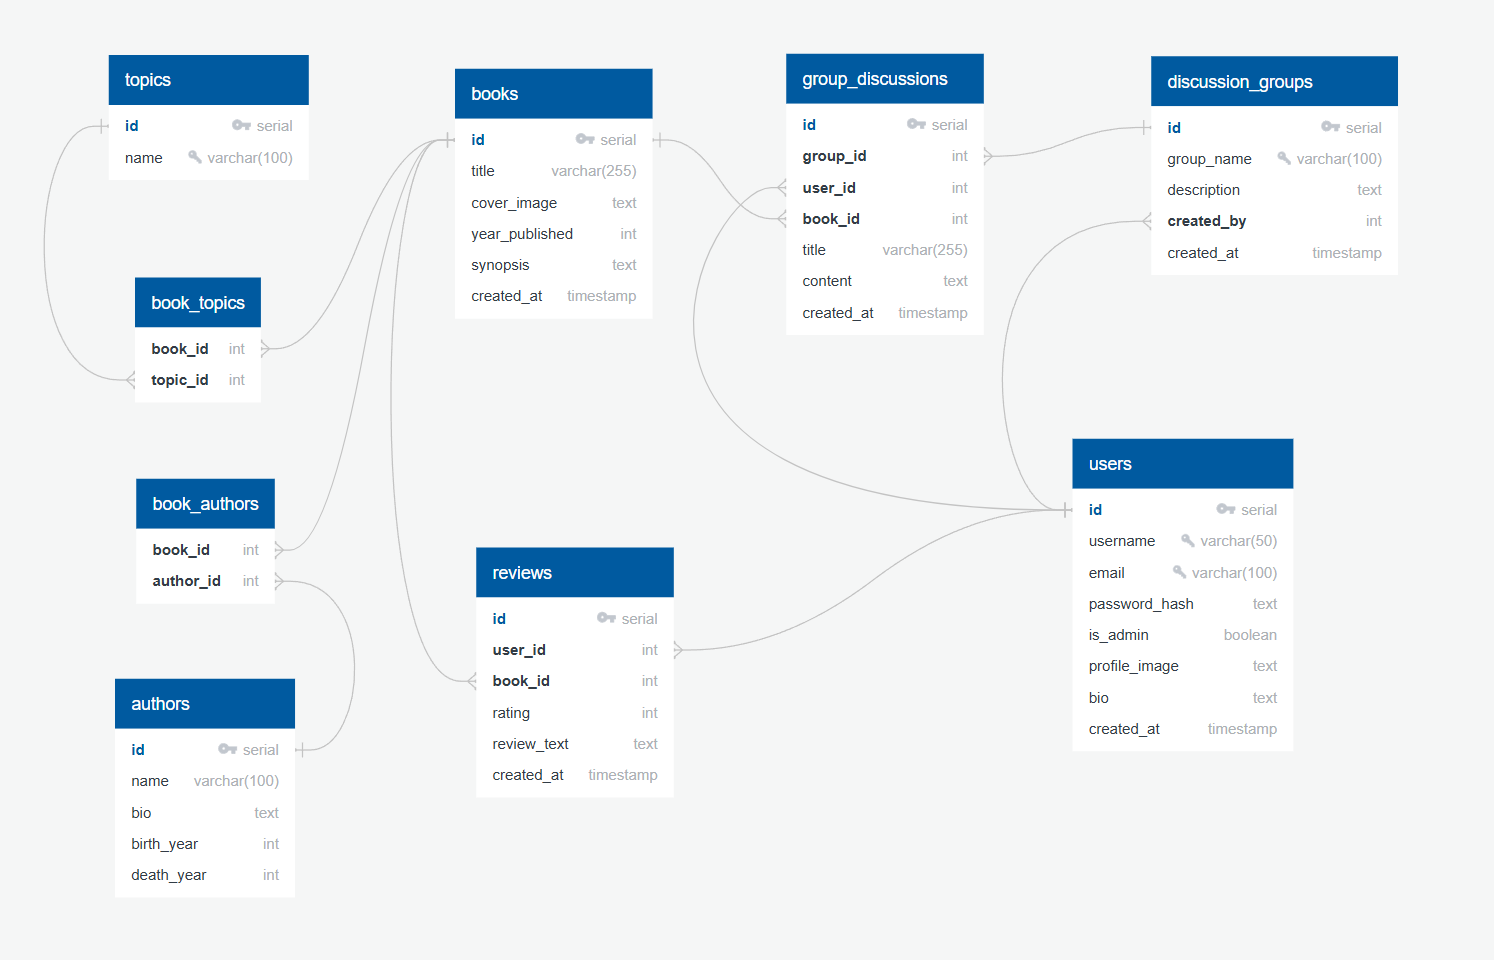
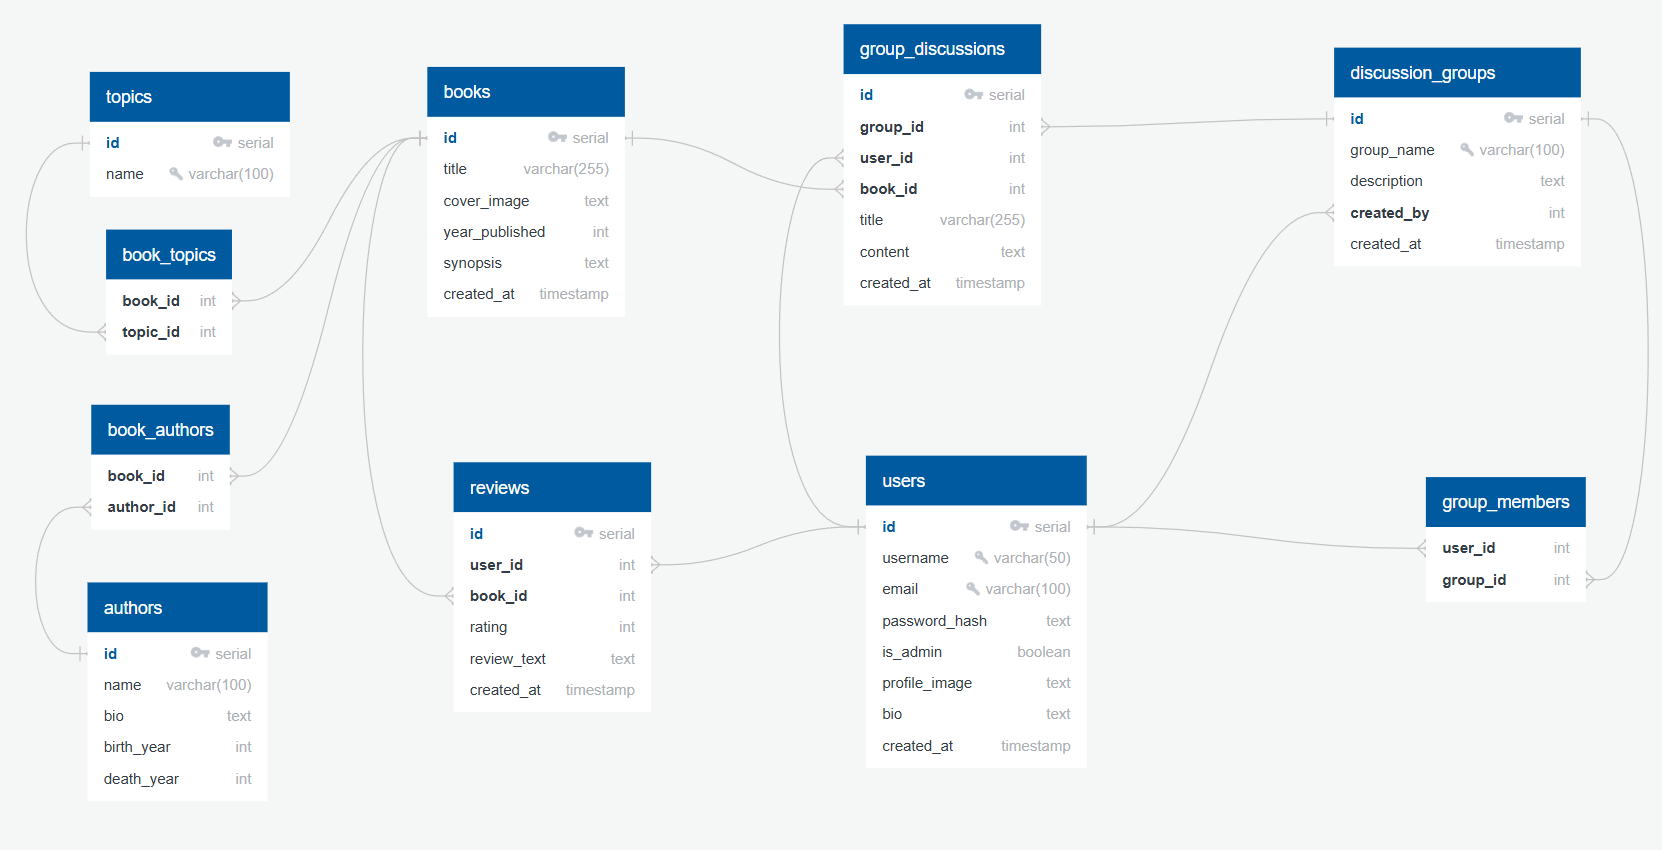
updated database to include group_members table

diff --git a/backend/seedDatabase.js b/backend/seedDatabase.js
@@ -120,6 +120,13 @@ async function seedDatabase() {
                                                content TEXT NOT NULL,
                                                created_at TIMESTAMP DEFAULT CURRENT_TIMESTAMP
             );
+
+            CREATE TABLE group_members (
+                                           user_id INTEGER NOT NULL REFERENCES users(id) ON DELETE CASCADE,
+                                           group_id INTEGER NOT NULL REFERENCES discussion_groups(id) ON DELETE CASCADE,
+                                           PRIMARY KEY (user_id, group_id)
+            );
+
         `;
 
         await newClient.query(schemaSQL);
